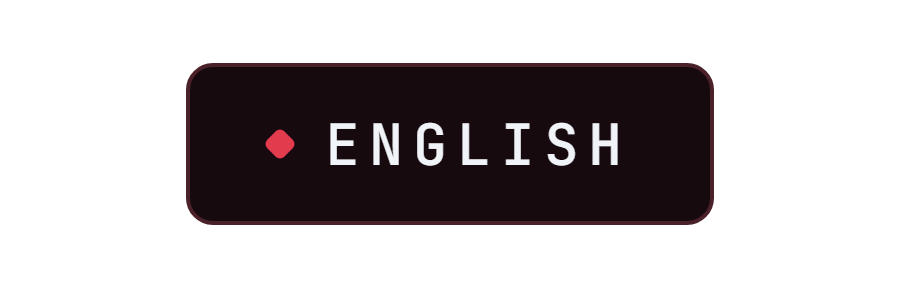
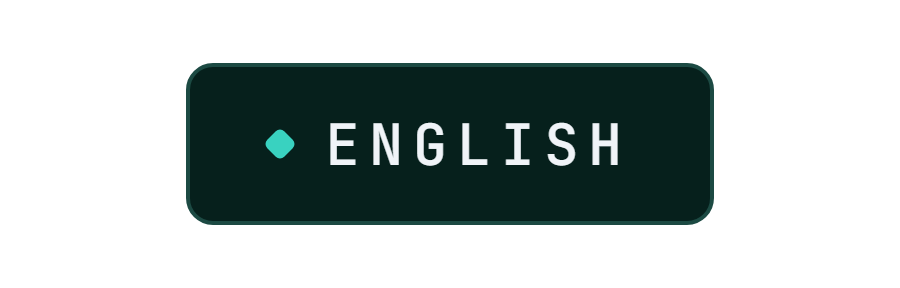
docs: horloge juste, pastilles sarcelle, validation sans débordement
- Le rappel : l'heure ne s'affiche que quand les aiguilles la montrent,
  elle disparaît pendant qu'elles tournent ; le cadran porte 12, 3, 6, 9.
- Les pastilles de langue prennent l'accent de BeVannes, elles étaient
  restées au rouge d'origine.
- La validation : des lignes plus courtes et des cases plus larges, plus
  rien ne dépasse.

Claude-Session: https://claude.ai/code/session_01WGs6QSVmucucsE4NdDKAXp

diff --git a/docs/tools/anime.js b/docs/tools/anime.js
@@ -540,6 +540,10 @@ function rappel() {
     const l = i % 3 === 0 ? 12 : 6;
     b += `<path d="M${cx + Math.sin(a) * (r - 8)} ${cy - Math.cos(a) * (r - 8)} L${cx + Math.sin(a) * (r - 8 - l)} ${cy - Math.cos(a) * (r - 8 - l)}" stroke="${i % 3 === 0 ? C.text : C.faint}" stroke-width="${i % 3 === 0 ? 3 : 2}" stroke-linecap="round"/>`;
   }
+  for (const [n, a] of [[12, 0], [3, 90], [6, 180], [9, 270]]) {
+    const rad = (a * Math.PI) / 180;
+    b += text(cx + Math.sin(rad) * (r - 34), cy - Math.cos(rad) * (r - 34) + 6, String(n), { size: 16, color: C.text, anchor: 'middle', weight: 700 });
+  }
   // Les aiguilles tournent d'une heure à la suivante.
   const pas = 0.24;
   const angleH = ([, h, m]) => ((h % 12) + m / 60) * 30;
@@ -573,8 +577,10 @@ function rappel() {
 
   // Le jour et l'heure, à droite du cadran.
   jours.forEach(([nom, h, m], i) => {
+    // Affichée pendant que les aiguilles la montrent, masquée pendant
+    // qu'elles tournent vers la suivante.
     const a = 0.02 + i * pas;
-    const z = i < jours.length - 1 ? 0.02 + (i + 1) * pas : 0.96;
+    const z = i < jours.length - 1 ? a + pas - 0.07 : 0.96;
     b += pendant(D, a, z, text(360, 190, nom, { size: 16, color: C.faint }) + text(360, 240, `${h} h ${String(m).padStart(2, '0')}`, { size: 46, color: C.title, weight: 800 }), 0.015);
   });
 
@@ -843,13 +849,13 @@ function parcours() {
   b += etape(60, 50, t('UNE VALIDATION', 'ONE VALIDATION'), t('Du déclencheur au classement, en une transaction', 'From shutter to leaderboard, in one transaction'));
 
   const postes = [
-    [t('Téléphone', 'Phone'), [t('photo 3:4', '3:4 photo'), t('GPS : 20 m du lieu', 'GPS: 20 m away')]],
+    [t('Téléphone', 'Phone'), [t('photo en 3:4', '3:4 photo'), t('à 20 m du lieu', '20 m from the spot')]],
     ['Storage', ['photos/20720/', 'toi.jpg']],
-    ['Firestore', [t('validation 20720_toi', 'validation 20720_toi'), t('joueur : série, points', 'player: streak, points')]],
+    ['Firestore', [t('validation écrite', 'validation written'), t('joueur à jour', 'player updated')]],
     [t('Règles', 'Rules'), [t('série 3 → 4', 'streak 3 → 4'), '10 + 2 × 3 = 16 ✓']],
     [t('Classement', 'Leaderboard'), [t('+16 points', '+16 points'), t('4e sur 12', '4th of 12')]],
   ];
-  const pw = 196;
+  const pw = 206;
   const ph = 150;
   const y = 150;
   const x0 = 60;
